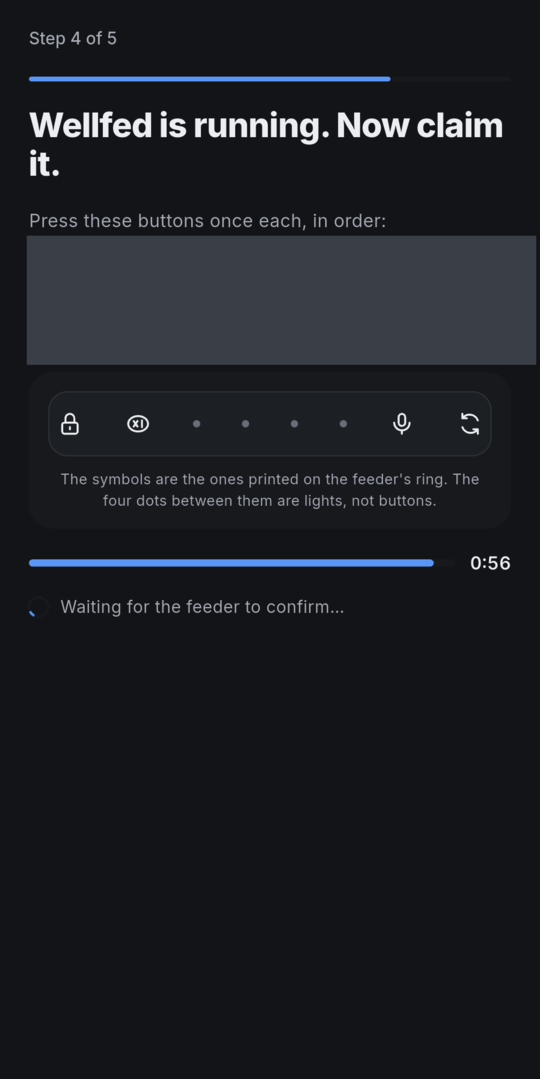
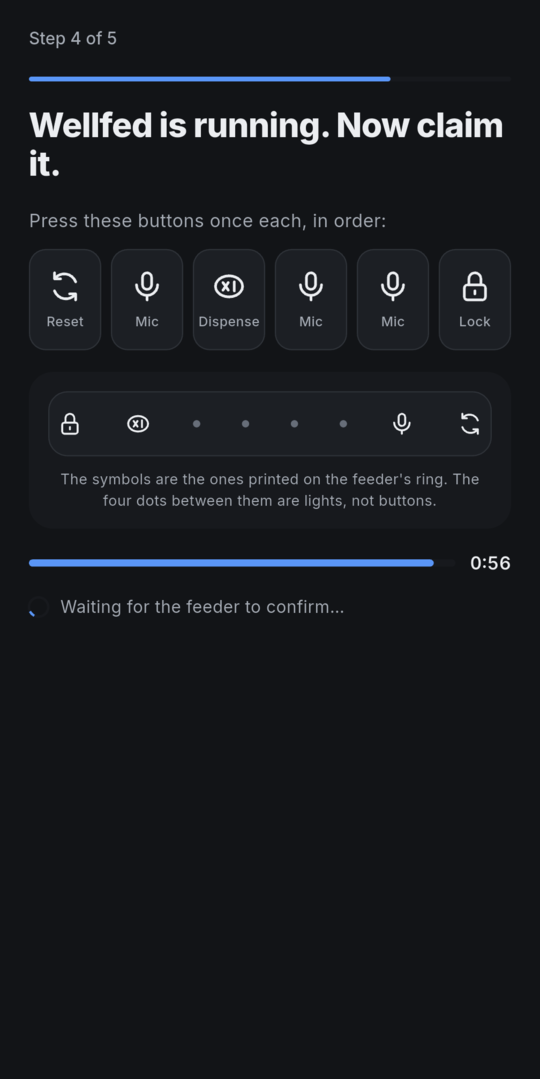
Show the claim screen's expired setup code in the install guide

Changed region(s): [[0.0296, 0.2141, 1.0, 0.3364]]

diff --git a/docs/guide/install.md b/docs/guide/install.md
@@ -96,7 +96,9 @@ The run prints the six presses by button name and rings the terminal bell. Press
 
 <!-- /tabs -->
 
-![The app shows the ring's symbols and a countdown, with the six presses hidden here because they are a one-time code](app-claim.png)
+![The app shows six buttons to press in order, a map of the ring's symbols and a countdown](app-claim.png)
+
+The code in this screenshot is from an old run and has expired. Yours will be different.
 
 ## Step 5: Make it permanent
 
@@ -145,4 +147,4 @@ Follow what the stop screen offers, since the right move depends on where it sto
 
 - **Observed, October 30, 2026.** The app ran these steps on one research feeder from a real Reset hold, including a retry after a wrong password.
 - **Observed, October 31, 2026.** The CLI ran them from stock on the same feeder and was resumed once after a setup code timed out. Its own hop onto the feeder's network hasn't run; the network was joined by hand.
-- The screenshots are from an October 30 run. Device details and the one-time code are painted over.
+- The screenshots are from an October 30 run. Device details are painted over. The setup code shown had expired.

diff --git a/docs/development/writing.md b/docs/development/writing.md
@@ -90,7 +90,7 @@ GitHub hides the comments and shows both sections. The site shows a switch that 
 
 A screenshot is a PNG beside the page, shown with an inline Markdown image whose alt text says what matters in it. Before one enters Git:
 
-- Paint over anything private with a solid block, since blur and pixelation can be reversed: Wi-Fi names and passwords, device IDs, serials, MAC and IP addresses, keys and setup codes, account and people names, and notifications. Crop out the status bar where you can.
+- Paint over anything private with a solid block, since blur and pixelation can be reversed: Wi-Fi names and passwords, device IDs, serials, MAC and IP addresses, keys and live setup codes, account and people names, and notifications. Crop out the status bar where you can.
 - Export a fresh PNG with no metadata, and check that with a metadata dump.
 - Look at the image at full size. Keep the original out of Git.
 
